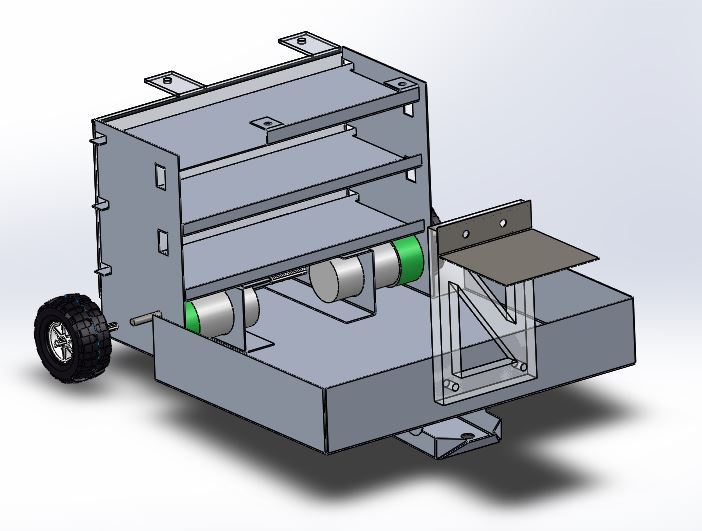
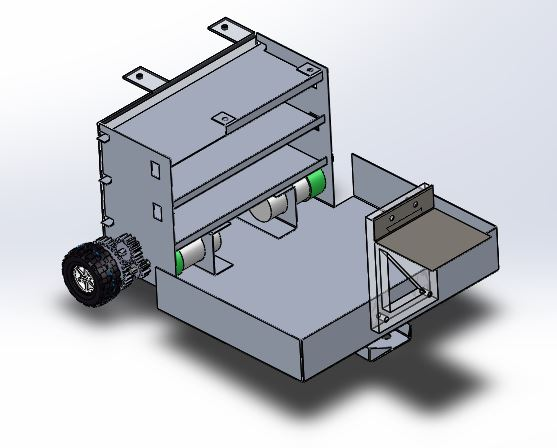
update report with gears

diff --git a/etc/report/main.tex b/etc/report/main.tex
@@ -207,7 +207,7 @@ Our robot will consist of four main mechanical sub-assemblies: The Chassis, The 
 	The retrieval arm consists of two main section: the supporting body (\autoref{fig:armBody}) and the arm end (\autoref{fig:armEnd}). The supporting body is constructed out of 20 gauge aluminum. It houses the arm sections, gears and pet knock off tool (\autoref{fig:knockOffTool})and will attach to the chassis via pop rivet. There will be two arm sections, one strait and one that will double as the large driving gear. Both arms will be cut out of acrylic(\autoref{fig:arm}). The gear ratio between the driving DC motor and the arm gear will be 5:1 as determined in \autoref{AppendixA}. The knock of tool will be made of 3.2mm diameter round steel and positioned so that pets will be knocked off the arm above the chassis. The length and center of rotation of the arm were chosen such that the arm is the same distance from the chassis center(eight inches) when the pick up surface is at both six and twelve inches from the playing surface so that both arms can be used to pick up the pets placed on the surface and the pet that is elevated.
 	
 		\subsubsection{Retrieval Arm End}
-		The arm end will consist of a body made of acrylic, L-brackets made of steel to magnetically attach to pets, and aluminum sheets that will be pushed into micro-switches when a pet is picked up(\autoref{fig:armEnd}). There will be two such L-bracket assemblies. The smaller assembly, facing the front of the robot, will be used to pick up pets 1-4 and 5. This arm will align with the knock off tool to deposit pets in the chassis. The larger assembly, facing the rear of the robot, is at the bottom of the body and will be used to collect pet 6 from the box of foam. This assembly will be reinforced with magnets and the 6th pet will remain on the bracket for the remainder of the course.
+		The arm end will consist of a body made of acrylic, L-brackets made of steel to magnetically attach to pets, and aluminum sheets that will be pushed into micro-switches when a pet is picked up(\autoref{fig:armEnd}). There will be two such L-bracket assemblies. The smaller assembly, facing the front of the robot, will be used to pick up pets 1-4 and 5. This arm will align with the knock off tool to deposit pets in the chassis and the aluminum sheet will pivot on a hinge. The larger assembly, facing the rear of the robot, is at the bottom of the body and will be used to collect pet 6 from the box of foam. This assembly will be reinforced with magnets and the 6th pet will remain on the bracket for the remainder of the course. The aluminum sheet will hang below the L-bracket.
 		
 	\begin{figure}[h]
 		\centering
